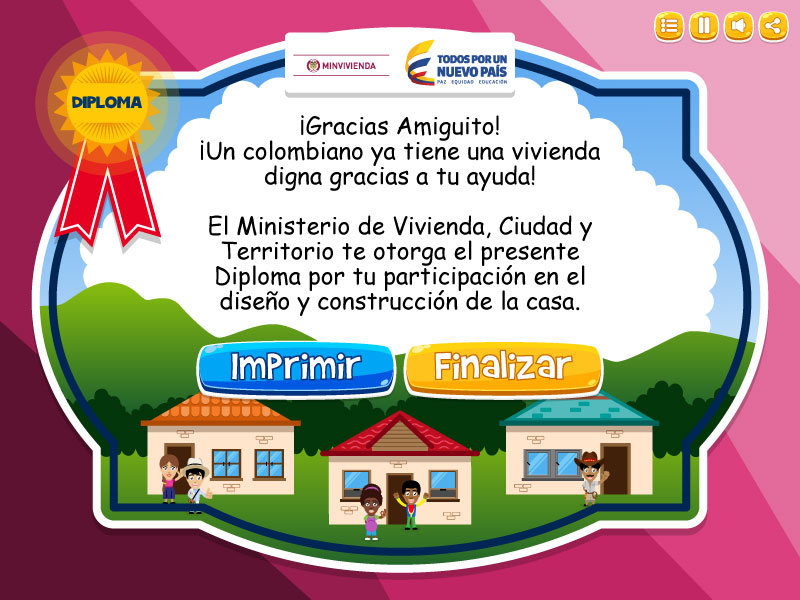
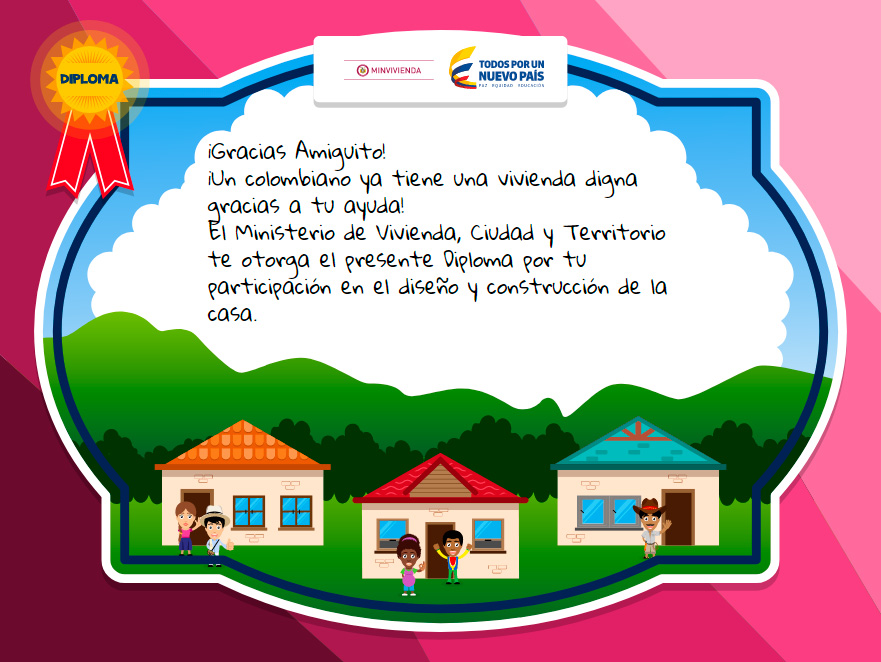
cambios 05-04

diff --git a/css/site.css b/css/site.css
@@ -23,7 +23,8 @@ font-family: Helvetica Neue, Helvetica, Arial, sans-serif;
 .controlHeader{ padding: 10px; height: 54px; position: absolute; top: 10px; left: 0; width: 100%; }
 .leftControlSup{ float: left; width: 40%; }
 .rightControlSup{ float:right; width: 40%; text-align: right; }
-.iconControlSup{ width: 33px; height: 33px; display: inline-block; cursor: hand; cursor: pointer;}
+#seguir, #salir, #reiniciar{ cursor: hand; cursor: pointer; }
+.iconControlSup{ width: 33px; height: 33px; display: inline-block; cursor: hand; cursor: pointer; }
 .iconControlSupIzq{ width: auto; height: 33px; display: inline-block; cursor: hand; cursor: pointer; float: left;}
 .pasos{ background: url("../images/controlesSup/boton-1-submenu-pasos.svg") no-repeat;}
 .pausa{ background: url("../images/controlesSup/boton-2-submenu-pausa.svg") no-repeat;}
@@ -455,12 +456,13 @@ background: url("../images/casa/servicios/servicio-publico-2-grifo-lavamanos-lav
 z-index: 9; right: 236px; top: 442px;
 background: url("../images/casa/servicios/servicio-publico-1-luz-lampara.svg") no-repeat; }
 .diploma .controlFooter{ max-height: 120px; bottom: 20%; }
-.diploma .controlFooter div{ height: auto; display: inline-block; }
+.diploma .controlFooter div{ height: auto; display: inline-block; cursor: pointer; cursor: hand; }
 .diploma .controlFooter img{ height: 100%; width: 140px; }
 .contentSceneDiploma{ height: 100%; margin: 0 auto; width: 100%;
   background: url("../images/diploma/marco-diplomaV2.svg") no-repeat center center;   }
 .bgDiploma{ height: 100%; margin: 0 auto; width: 100%;
   background: url("../images/diploma/fondo-paisaje-diploma.svg") no-repeat center center;   }
 .solDiploma{ width: 120px; top: 20px; position: absolute; left: 20%; }
-.contentMarcoDiploma{ margin: 0 auto; font-size: 1.4em; line-height: 1.3em; color: #000;
-font-family: 'Gloria Hallelujah', cursive; width: 36%; padding-top: 10%; }
+.contentMarcoDiploma{ margin: 0 auto; font-size: 1.3em; line-height: 1.3em; color: #000;
+font-family: 'Gloria Hallelujah', cursive; width: 34%; padding-top: 10%; }
+.logoDiploma{ width: 200px; display: inline-block; position: absolute; top: 7%; left: 43%;}

diff --git a/js/app.js b/js/app.js
@@ -1,4 +1,4 @@
-currentScene="1";
+currentScene="7";
 selectedRegion='';
 urlImagenRegion="";
 urlImagenPersonaje="";
@@ -226,14 +226,14 @@ function initialize()
 	})
 
 	$('.btnJugarE').click(function(){
-		currentScene="1";
-		alternateScene(currentScene);
+		/*currentScene="1";
+		alternateScene(currentScene);*/
 		location.href="home.html";
 	})
 
 	$('.btnFinal2').click(function(){
-		currentScene="1";
-		alternateScene(currentScene);
+		/*currentScene="1";
+		alternateScene(currentScene);*/
 		location.href="home.html";
 	})
 
@@ -299,13 +299,14 @@ function initialize()
 	})
 
 	$('#reiniciar').click(function(){
-		currentScene="1";
-		alternateScene(currentScene);
+		/*currentScene="1";
+		alternateScene(currentScene);*/
 		location.href="home.html";
 	})
 
 	$('#salir').click(function(){
-		closeWindow();
+		//closeWindow();
+		location.href="home.html";
 	})
 
 	$('#personaje1').click(function(){

diff --git a/html/home.html b/html/home.html
@@ -53,7 +53,7 @@
   <div class="bgSceneVerde">
       <div class="contentScene2">
         <div class="bgMarco">
-          <div id="salir" class="btn-cerrar"><img src="../images/pasos/boton-cerrar.svg" /></div>
+          <div class="btn-cerrar"><img src="../images/pasos/boton-cerrar.svg" /></div>
           <div class="titMarco">Pausa</div>
           <div class="contentMarco">
             <div id="seguir" class="col-3">
@@ -992,6 +992,9 @@
       <div class="contentSceneDiploma">
         <div class="solDiploma">
             <img src="../images/diploma/sello-sol-diploma.svg" />
+        </div>
+        <div class="logoDiploma">
+            <img src="../images/escena1/logo-minvivienda-gobierno.svg" />
         </div>
         <div class="contentMarcoDiploma">
           ¡Gracias Amiguito!<br/>
